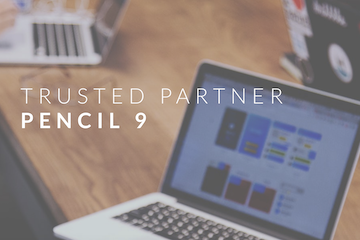
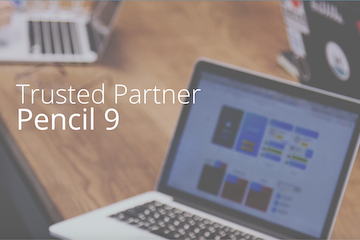
Final cleanups prior to launch
Updated thumbnail slide images at top, added AEC in main intro paragraph, Modelling to Modeling, organized footer, added LinkedIn hyperlink

diff --git a/Pencil 9/index.html b/Pencil 9/index.html
@@ -200,7 +200,7 @@
 						<div id="rs-fullwidth" class="tp-banner dark-bg" >
 							<ul>	
 								<!-- SLIDE 1 -->
-								<li data-transition="zoomout" data-slotamount="1" data-masterspeed="1500" data-thumb="images/revo-slider/PEN9-thumb.png"  data-saveperformance="on"  data-title="Pencil 9">
+								<li data-transition="zoomout" data-slotamount="1" data-masterspeed="1500" data-thumb="images/revo-slider/Pencil9-thumb.png"  data-saveperformance="on"  data-title="Pencil 9">
 									<!-- MAIN IMAGE -->
 									 
 									<img src="images/revo-slider/dummy.png"  alt="Photo by Annie Spratt on Unsplash" data-lazyload="images/revo-slider/cool-office-space-contrast.jpg" data-bgposition="center top" data-bgfit="cover" data-bgrepeat="no-repeat">
@@ -265,7 +265,7 @@
 								</li>
 
 								<!-- SLIDE 2 -->
-								<li data-transition="zoomout" data-slotamount="1" data-masterspeed="1500" data-thumb="images/revo-slider/pencil-wood-thumb.jpg"  data-saveperformance="on"  data-title="INNOVATION">
+								<li data-transition="zoomout" data-slotamount="1" data-masterspeed="1500" data-thumb="images/revo-slider/innovation-thumb.png"  data-saveperformance="on"  data-title="Innovation">
 									
                   <!-- MAIN IMAGE -->
                   <!--<img src="images/revo-slider/dummy.png"  alt="slidebg2" data-lazyload="images/revo-slider/face-side.jpg" data-bgposition="center top" data-bgfit="cover" data-bgrepeat="no-repeat">-->
@@ -325,7 +325,7 @@
 								</li>
 								
 								<!-- SLIDE 3 -->
-								<li data-transition="zoomout" data-slotamount="1" data-masterspeed="1500" data-thumb="images/revo-slider/partner-thumb2.png"  data-saveperformance="on"  data-title="PARTNER">
+								<li data-transition="zoomout" data-slotamount="1" data-masterspeed="1500" data-thumb="images/revo-slider/partner-thumb.png"  data-saveperformance="on"  data-title="Partner">
 									
                   <!-- MAIN IMAGE -->
 									<img src="images/revo-slider/dummy.png"  alt="Photo by Headway on Unsplash" data-lazyload="images/revo-slider/partner-meeting.jpg" data-bgposition="center top" data-bgfit="cover" data-bgrepeat="no-repeat">
@@ -386,7 +386,7 @@
               <div class="col-md-5 pb-40">
                 <blockquote class="quote mb-0 pr-50-min-1169">
                   <p>
-                    Whether you are a large or small organization, Pencil 9 can help improve how you leverage technology to realize productivity gains.
+                    Whether you are a large or small organization in the Architectural, Engineering & Construction (AEC) industry, Pencil 9 can help improve how you leverage technology to realize productivity gains.
                   </p>
                 </blockquote>
               </div>
@@ -408,7 +408,7 @@
                   <div class="col-md-12 col-sm-12 pb-10">
                     <div class="fes5-box wow fadeIn" data-wow-delay="400ms">
                       <h3>Our services</h3>
-                      <p>Pencil 9 provides consulting and software development services from the United States and United Kingdom within the Architecture, Engineering and Construction (AEC) industry with a specialized focus on Information Management and Building Information Managment (BIM) disciplines working with Autodesk, Bentley, and CADWorx Plant Professional software platforms.</p>
+                      <p>Pencil 9 provides consulting and software development services from the United States and United Kingdom within the AEC industry with a specialized focus on Information Management and Building Information Managment (BIM) disciplines working with Autodesk, Bentley, and CADWorx Plant Professional software platforms.</p>
                     </div>
                   </div>
                       
@@ -525,7 +525,7 @@
                     <!--<p>STRATEGIES TO HELP TRANSFORM YOUR COMPANY</p>-->
                   </div>
                   <div>
-                    Pencil 9 offers world class knowledge and expertise within Information Management and Building Information Modelling
+                    Pencil 9 offers world class knowledge and expertise within Information Management and Building Information Modeling
                     (BIM) systems to help your organization achieve a specific goal, or to transform how you work.
                   </div>
 								</div>
@@ -584,7 +584,7 @@
                     <p>&nbsp</p>
                   </div>
                   <div>
-                    Pencil 9 has deep practical knowledge in the application of Information Management standards such as ISO 19650 or regional Building Information Modelling standards and provides consulting services in the strategic deployment of systems to comply with the standards.
+                    Pencil 9 has deep practical knowledge in the application of Information Management standards such as ISO 19650 or regional Building Information Modeling standards and provides consulting services in the strategic deployment of systems to comply with the standards.
                   </div>
                 </div>
               </div>
@@ -961,7 +961,10 @@
                 </div>
                   
                 <div>
-                  We want to team up with you and the technology experts within your company. We know you likely have some innovative workflows and ideas, we don’t want to change that, we want to help you be able to make those ideas a reality. We have an agnostic approach to tools and know you likely have made tool choices for important reasons. We want to help you optimize the use of the tools that are important to you.
+                  We want to team up with you and the technology experts within your organization.
+                  We know you likely have some innovative workflows and ideas, and we want to help you be able to make those ideas a reality.
+                  We have an agnostic approach to tools and know you likely have made tool choices for important reasons.
+                  We want to help you optimize the use of the tools that are important to you.
                 </div>
 
               </div>
@@ -1048,10 +1051,11 @@
 
             <!-- Copyright -->
             <div class="footer-copy">
-              <span class="footer-text">&copy; PENCIL 9 LLC 2020 | LONDON, ATLANTA, DENVER</span><br />
+              <span class="footer-text">&copy; PENCIL 9 LLC 2020<br />
+                LONDON &middot; ATLANTA &middot; DENVER</span><br />
               <a href="mailto:info@pencil9.com">INFO@PENCIL9.COM</a><span class="footer-text"> | +1 720 316 7850</span>
               <br />
-              <a href="" title="LinkedIn+" target="_blank"><i class="fa fa-linkedin"></i></a>
+              <a href="https://www.linkedin.com/company/pencil-9" title="LinkedIn+" target="_blank"><i class="fa fa-linkedin"></i></a>
             </div>
                     
           </div>
